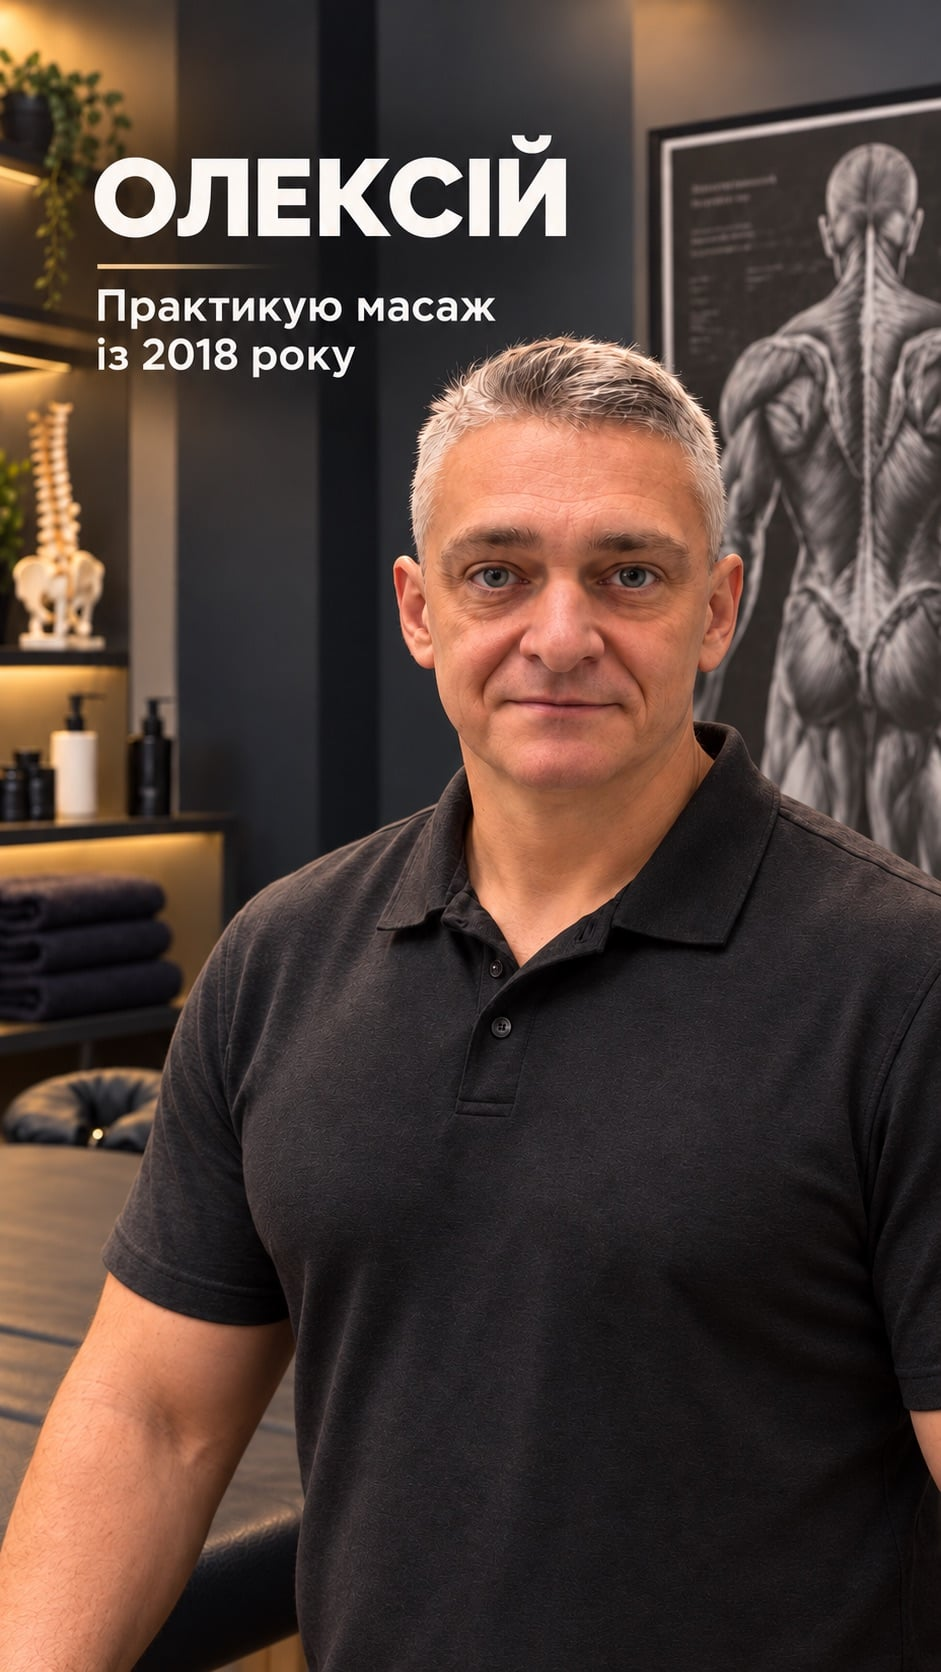
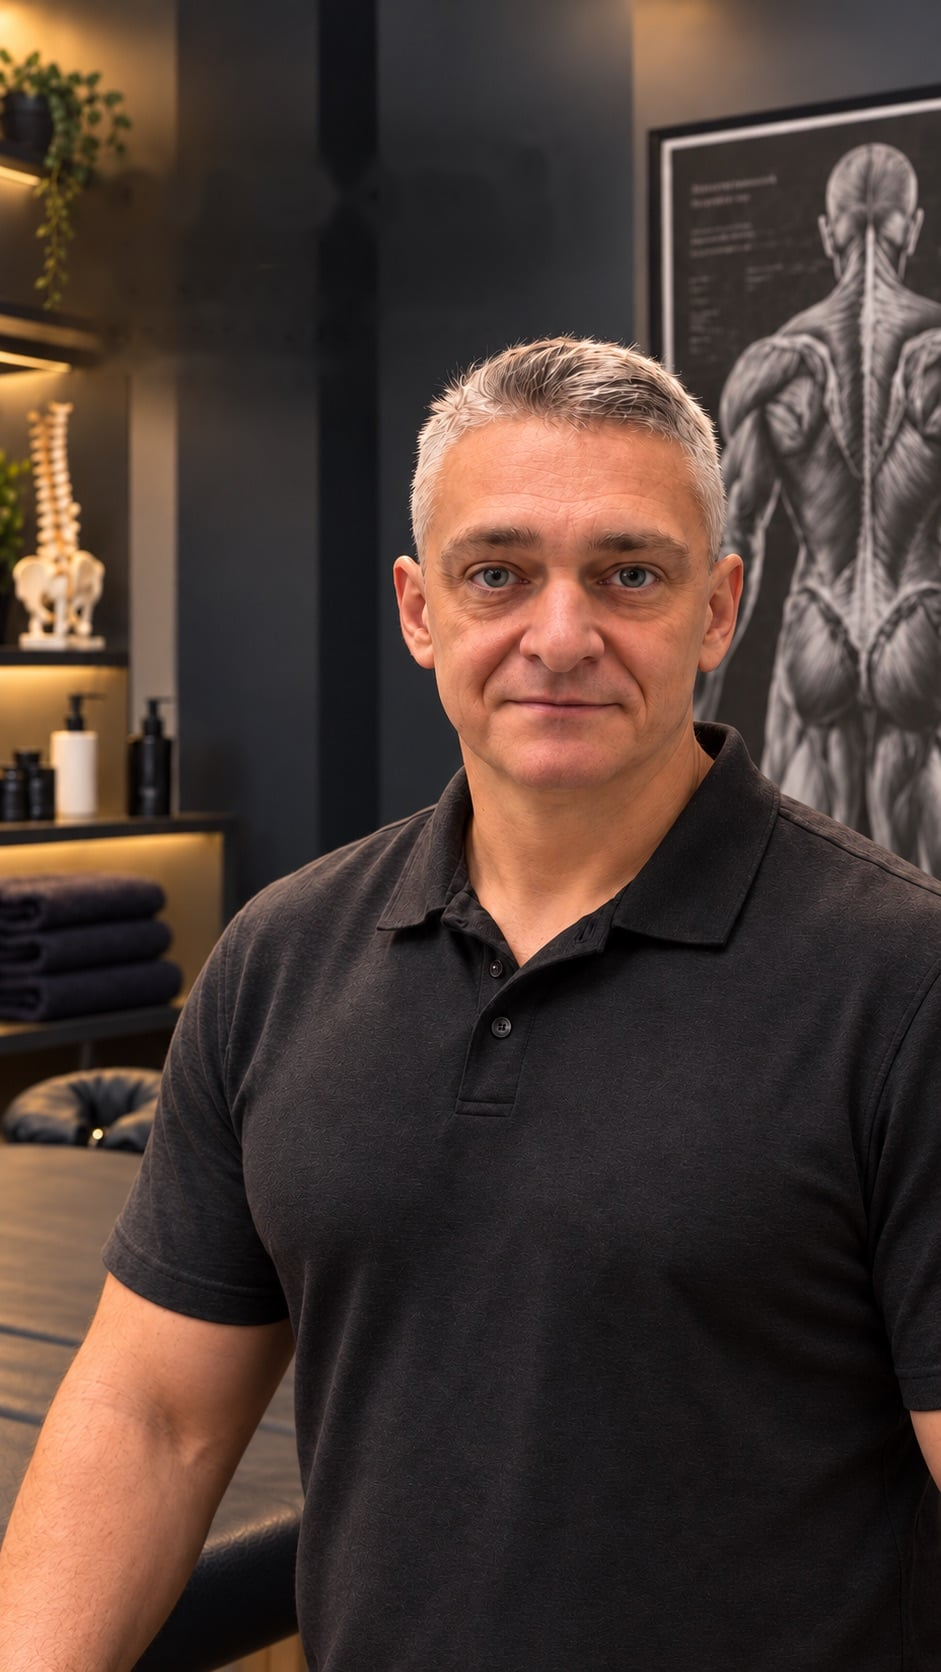
Use -сь reflexive endings and remove caption text from portrait

Changed region(s): [[0.0925, 0.0622, 0.6164, 0.2488]]

diff --git a/src/components/BookingDialog.tsx b/src/components/BookingDialog.tsx
@@ -79,7 +79,7 @@ function BookingModal({ service, onService, onClose }: ModalProps) {
     }
 
     const lines = [
-      "Вітаю! Хочу записатися на масаж.",
+      "Вітаю! Хочу записатись на масаж.",
       `Ім'я: ${name}`,
       `Телефон: ${phone}`,
       `Послуга: ${service}`,
@@ -136,7 +136,7 @@ function BookingModal({ service, onService, onClose }: ModalProps) {
               <h2 id="booking-title" className="font-display text-3xl">
                 Запис на масаж
               </h2>
-              <p className="text-ink-600">Залиште заявку — я зв&apos;яжуся й підберу зручний час.</p>
+              <p className="text-ink-600">Залиште заявку — я зв&apos;яжусь й підберу зручний час.</p>
             </div>
             <div className="grid gap-4 sm:grid-cols-2">
               <label className="flex flex-col gap-2">
@@ -174,7 +174,7 @@ function BookingModal({ service, onService, onClose }: ModalProps) {
               <textarea
                 name="comment"
                 rows={2}
-                placeholder="Що турбує, зручний час, тренуєтеся чи ні…"
+                placeholder="Що турбує, зручний час, тренуєтесь чи ні…"
                 className={`${fieldClass} resize-none`}
               />
             </label>
@@ -193,7 +193,7 @@ function BookingModal({ service, onService, onClose }: ModalProps) {
               Надіслати заявку
             </button>
             <p className="text-center text-xs text-ink-400">
-              Натискаючи кнопку, ви погоджуєтеся на обробку персональних даних.
+              Натискаючи кнопку, ви погоджуєтесь на обробку персональних даних.
             </p>
           </form>
         ) : (

diff --git a/src/content/site.ts b/src/content/site.ts
@@ -34,7 +34,7 @@ export const stats = [
 export const about = {
   title: "Сильні руки для сильного тіла",
   paragraphs: [
-    "Мене звуть Олексій. З 2018 року я допомагаю людям позбутися болю в спині та шиї, швидше відновлюватися після тренувань і травм, зняти накопичену напругу.",
+    "Мене звуть Олексій. З 2018 року я допомагаю людям позбутись болю в спині та шиї, швидше відновлюватись після тренувань і травм, зняти накопичену напругу.",
     "Мій кабінет розташований прямо в тренажерному залі: можна прийти на масаж одразу після тренування або перед ним. Кожен сеанс починаю з короткої консультації і підбираю техніку та інтенсивність саме під вас.",
   ],
   highlights: [
@@ -152,7 +152,7 @@ export const faq = [
   },
   {
     q: "Чи є протипоказання?",
-    a: "Так: гострі запалення, висока температура, шкірні захворювання в зоні масажу, тромбоз, онкологія. Якщо сумніваєтеся — напишіть, обговоримо.",
+    a: "Так: гострі запалення, висока температура, шкірні захворювання в зоні масажу, тромбоз, онкологія. Якщо сумніваєтесь — напишіть, обговоримо.",
   },
   {
     q: "Скільки потрібно сеансів?",

diff --git a/src/components/Hero.tsx b/src/components/Hero.tsx
@@ -73,7 +73,7 @@ export function Hero() {
             className="mt-8 max-w-xl text-lg leading-relaxed text-sand-100/85 sm:text-xl"
           >
             Масаж у кабінеті тренажерного залу: знімаю біль і напругу, допомагаю швидше
-            відновлюватися після тренувань і повертаю свободу рухів.
+            відновлюватись після тренувань і повертаю свободу рухів.
           </motion.p>
 
           <motion.div
@@ -87,7 +87,7 @@ export function Hero() {
               onClick={() => openBooking()}
               className="group inline-flex items-center gap-3 rounded-full bg-bronze-500 px-8 py-4 font-semibold text-sand-50 shadow-lg shadow-bronze-600/30 transition hover:bg-bronze-400"
             >
-              Записатися на сеанс
+              Записатись на сеанс
               <ArrowRight className="size-5 transition-transform group-hover:translate-x-1" />
             </button>
             <button
@@ -98,7 +98,7 @@ export function Hero() {
               <span className="grid size-12 place-items-center rounded-full border border-sand-50/40 transition group-hover:border-bronze-300 group-hover:bg-sand-50/10">
                 <Play className="size-4 fill-current" />
               </span>
-              Дивитися відео
+              Дивитись відео
             </button>
           </motion.div>
         </motion.div>

diff --git a/src/components/Header.tsx b/src/components/Header.tsx
@@ -74,7 +74,7 @@ export function Header() {
             onClick={() => openBooking()}
             className="hidden rounded-full bg-bronze-500 px-5 py-2.5 text-sm font-semibold text-sand-50 transition hover:bg-bronze-600 sm:inline-flex"
           >
-            Записатися
+            Записатись
           </button>
           <button
             type="button"
@@ -131,7 +131,7 @@ export function Header() {
                 }}
                 className="rounded-full bg-bronze-500 py-4 text-center font-semibold text-sand-50"
               >
-                Записатися на сеанс
+                Записатись на сеанс
               </button>
             </div>
           </motion.div>

diff --git a/src/components/About.tsx b/src/components/About.tsx
@@ -8,7 +8,6 @@ export function About() {
     <section id="about" className="py-16 sm:py-24">
       <div className="mx-auto grid max-w-7xl items-center gap-10 px-5 sm:px-8 md:grid-cols-[18rem_1fr] lg:grid-cols-[22rem_1fr] lg:gap-20">
         <Reveal className="mx-auto w-full max-w-[15rem] md:max-w-none">
-          {/* Вертикальний портрет із підписом на самому фото — показуємо цілком, без обрізання. */}
           <div className="relative aspect-941/1672 overflow-hidden rounded-[2rem] bg-ink-900">
             <Image
               src="/images/about.jpg"

diff --git a/src/components/Contacts.tsx b/src/components/Contacts.tsx
@@ -20,7 +20,7 @@ const contacts = [
   { Icon: Clock, text: site.hours },
 ];
 
-// Часті питання й контакти в одному блоці — щоб сторінка закінчувалася швидше.
+// Часті питання й контакти в одному блоці — щоб сторінка закінчувалась швидше.
 export function Contacts() {
   const { openBooking } = useBooking();
 

diff --git a/src/components/Services.tsx b/src/components/Services.tsx
@@ -36,7 +36,7 @@ export function Services() {
                     onClick={() => openBooking(s.title)}
                     className="text-sm font-semibold text-bronze-600 underline-offset-4 hover:underline"
                   >
-                    Записатися
+                    Записатись
                   </button>
                 </div>
               </li>

diff --git a/src/components/MobileCta.tsx b/src/components/MobileCta.tsx
@@ -35,7 +35,7 @@ export function MobileCta() {
         onClick={() => openBooking()}
         className="flex-1 rounded-full bg-bronze-500 font-semibold text-sand-50"
       >
-        Записатися на сеанс
+        Записатись на сеанс
       </button>
     </div>
   );
